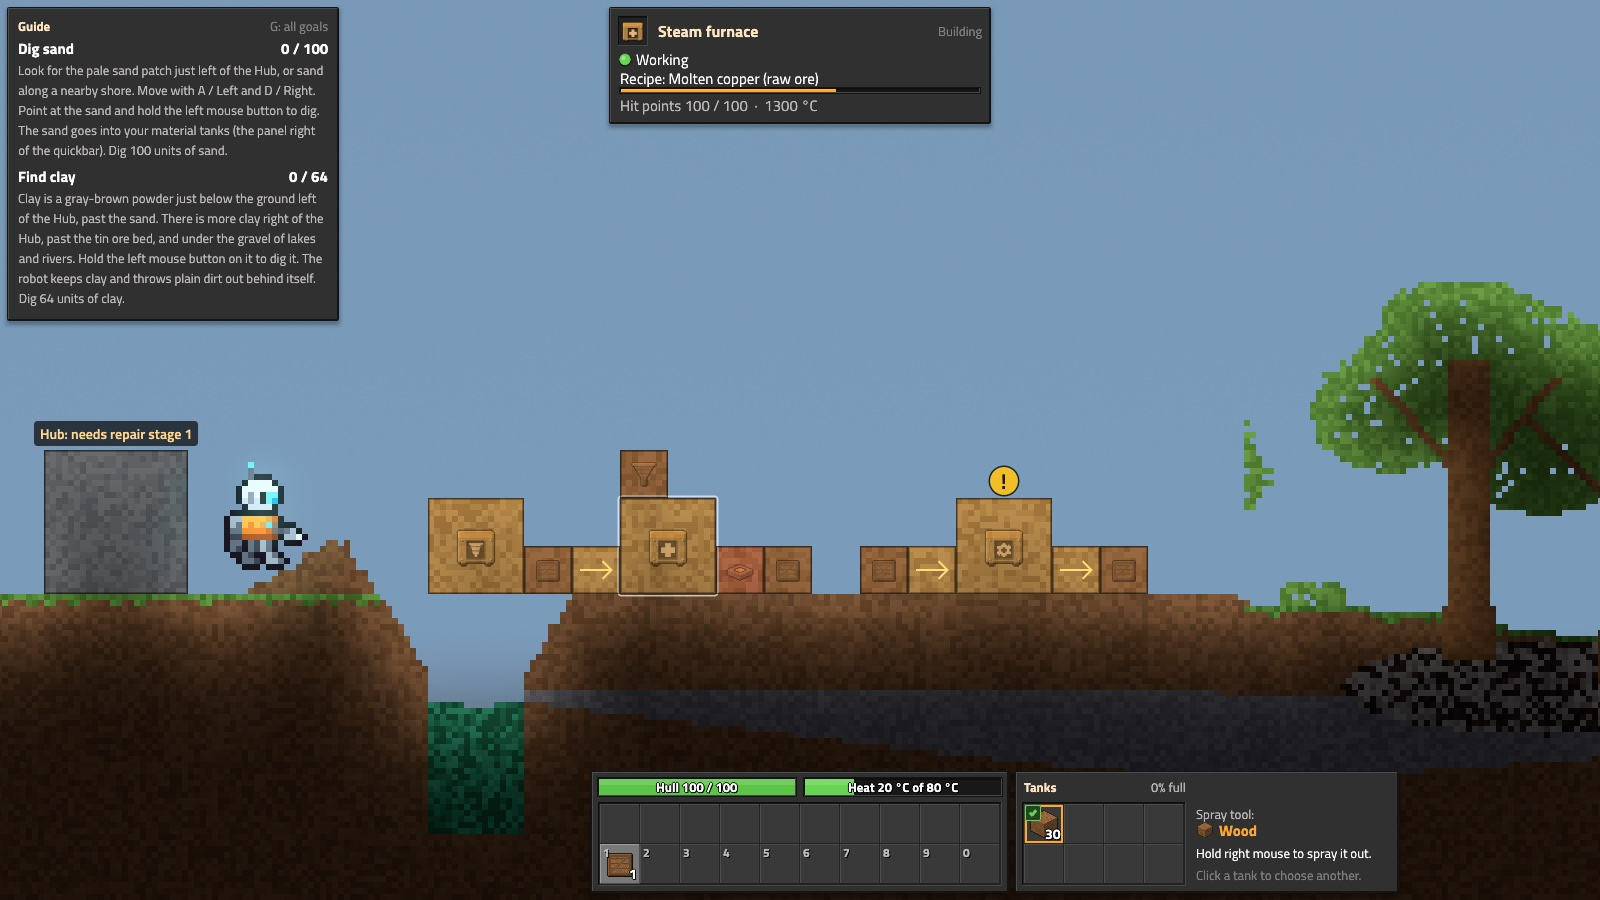
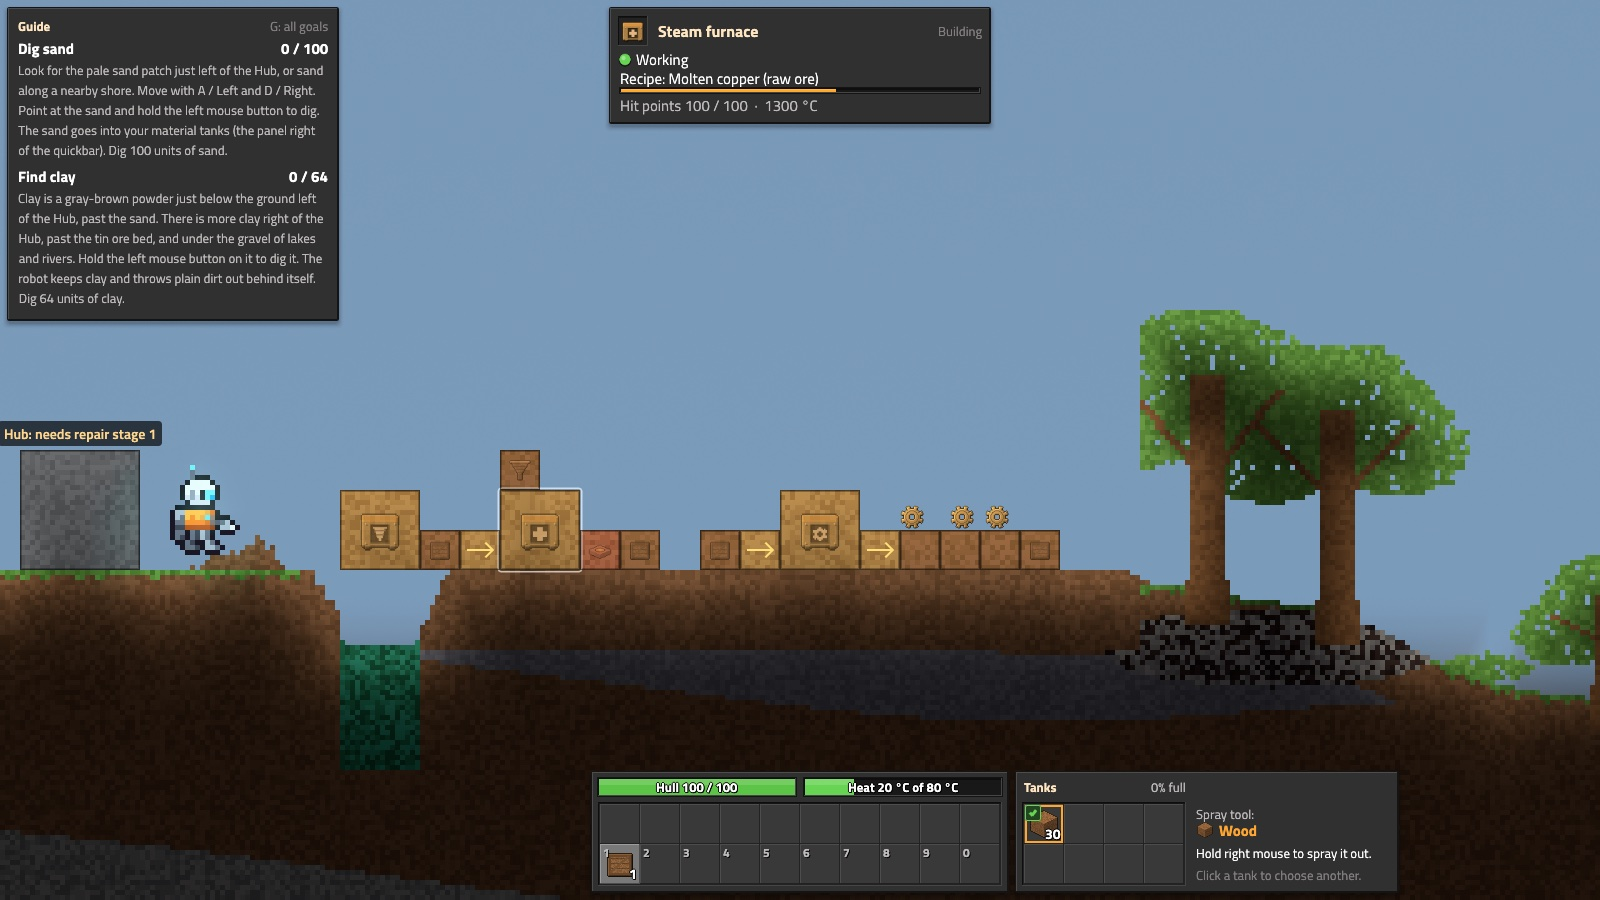
Parts ride belts: arms, crates and machine part outputs put parts on belts, belts give them to the next belt or the building at the end, arms take them off; the overlay draws them

Changed region(s): [[0.0, 0.3111, 1.0, 0.9333], [0.0, 0.9333, 0.3438, 1.0]]

diff --git a/crates/factory/src/buildings.rs b/crates/factory/src/buildings.rs
@@ -426,6 +426,11 @@ fn accept_room(logic: &Logic, content: &Content, item: ItemRef, hub: &HubRule) -
             }
             _ => 0,
         },
+        // A part goes on at the start of a belt tile, when there is room there.
+        Logic::Belt(belt) => match item {
+            ItemRef::Part(_) => belt.has_room_at_start() as u32,
+            ItemRef::Material(_) => 0,
+        },
         _ => 0,
     }
 }
@@ -478,6 +483,10 @@ fn accept(logic: &mut Logic, content: &Content, item: ItemRef, n: u32, hub: &Hub
             ItemRef::Material(m) => (0..n).take_while(|_| h.push(m)).count() as u32,
             ItemRef::Part(_) => 0,
         },
+        Logic::Belt(belt) => match item {
+            ItemRef::Part(p) => belt.push_start(p) as u32,
+            ItemRef::Material(_) => 0,
+        },
         _ => 0,
     }
 }
@@ -506,7 +515,17 @@ pub(crate) fn take_contents(logic: &mut Logic, content: &Content) -> Vec<Stack> 
                 .filter(|s| s.count > 0)
                 .collect()
         }
-        Logic::Passive | Logic::Workbench | Logic::Belt(_) | Logic::Arm(_) => vec![],
+        Logic::Belt(belt) => {
+            let mut out: Vec<Stack> = vec![];
+            for p in belt.parts.drain(..) {
+                match out.iter_mut().find(|s| s.item == ItemRef::Part(p.part)) {
+                    Some(s) => s.count += 1,
+                    None => out.push(Stack { item: ItemRef::Part(p.part), count: 1 }),
+                }
+            }
+            out
+        }
+        Logic::Passive | Logic::Workbench | Logic::Arm(_) => vec![],
     }
 }
 
@@ -1251,7 +1270,7 @@ impl Buildings {
         let (me, dst) = two_mut(&mut self.slots, i as usize, nid.index as usize)?;
         let their_port =
             dst.ports.iter().find(|p| p.kind == PortKind::PartIn && p.tile == n_tile && p.side == opposite(port.side)).copied();
-        if their_port.is_none() && !matches!(dst.logic, Logic::Storage(_)) {
+        if their_port.is_none() && !matches!(dst.logic, Logic::Storage(_) | Logic::Belt(_)) {
             return None;
         }
         let my_def = content.factory.building_def(me.kind);
@@ -1786,7 +1805,8 @@ impl Buildings {
             if steps == 0 {
                 // Not a step tick. A belt with powder on it stays awake for the next step.
                 let r = b.cell_rect();
-                let loaded = (r.x0..r.x1).any(|x| phase(content, sim.cell(CellPos::new(x, r.y0 - 1)).material) == Phase::Powder);
+                let parts = matches!(&b.logic, Logic::Belt(belt) if !belt.parts.is_empty());
+                let loaded = parts || (r.x0..r.x1).any(|x| phase(content, sim.cell(CellPos::new(x, r.y0 - 1)).material) == Phase::Powder);
                 if loaded && let Some(b) = self.at_index_mut(i) {
                     b.busy = true;
                 }
@@ -1805,6 +1825,7 @@ impl Buildings {
             let mut moved = 0;
             for _ in 0..steps {
                 moved += move_belt_cells(sim, content, r, dir);
+                moved += self.move_belt_parts(i, content) as u32;
             }
             let b = self.at_index_mut(i).expect("belt exists");
             b.busy |= moved > 0;
@@ -1822,6 +1843,43 @@ impl Buildings {
                 }
             }
         }
+    }
+
+    /// One step of the parts on belt `i`: the front part goes on to the next belt or into the
+    /// building at the end of the belt (a crate, the Hub, a lab, or a machine with a part input
+    /// facing the belt) when it reaches the end; the others move up, a gap apart.
+    /// Returns true if a part moved.
+    fn move_belt_parts(&mut self, i: u32, content: &Content) -> bool {
+        let Some(b) = self.at_index(i) else { return false };
+        let Logic::Belt(belt) = &b.logic else { return false };
+        if belt.parts.is_empty() {
+            return false;
+        }
+        let end = (TILE_SIZE - 1) as u8;
+        let dir = belt_direction(b.transform);
+        let mut handed = false;
+        if let Some(front) = belt.parts.first().copied().filter(|p| p.pos >= end) {
+            let side = if dir > 0 { Side::Right } else { Side::Left };
+            let next = neighbor_tile(b.at, side);
+            if let Some(&nid) = self.front.get(&next)
+                && nid.index != i
+            {
+                let item = ItemRef::Part(front.part);
+                let takes = self.get(nid).is_some_and(|n| match &n.logic {
+                    Logic::Belt(_) | Logic::Storage(_) | Logic::Hub(_) | Logic::Lab(_) => true,
+                    Logic::Machine(_) => n.ports.iter().any(|q| q.kind == PortKind::PartIn && q.tile == next && q.side == opposite(side)),
+                    _ => false,
+                });
+                if takes && self.room_for(content, nid, item) > 0 && self.insert(content, nid, item, 1) == 1 {
+                    handed = true;
+                }
+            }
+        }
+        let Some(Logic::Belt(belt)) = self.at_index_mut(i).map(|b| &mut b.logic) else { return false };
+        if handed {
+            belt.parts.remove(0);
+        }
+        belt.advance(end) || handed
     }
 
     /// Decide if the building sleeps after this tick.

diff --git a/crates/factory/src/logistics.rs b/crates/factory/src/logistics.rs
@@ -10,7 +10,7 @@
 //! - workbench: `reach` in tiles (default 6); `speed` is the hand crafting speed near it
 
 use crate::progress_link::{KitBuffer, LabStatus};
-use foundry_core::{MaterialId, TICKS_PER_SECOND};
+use foundry_core::{MaterialId, PartId, TICKS_PER_SECOND};
 use serde::{Deserialize, Serialize};
 use std::collections::VecDeque;
 
@@ -58,11 +58,58 @@ impl Hopper {
     }
 }
 
-/// A belt. It moves the powder that rests on its top.
+/// A belt. It moves the powder that rests on its top, and parts that ride on it.
 #[derive(Debug, Clone, Default, PartialEq, Eq, Serialize, Deserialize)]
 pub struct Belt {
     /// Belt steps in a row that moved nothing.
     pub idle_steps: u32,
+    /// Parts on this belt tile, the front one first (see `BeltPart`).
+    #[serde(default)]
+    pub parts: Vec<BeltPart>,
+}
+
+/// A part on a belt tile. `pos` is the distance in cells from the end where parts come in
+/// (0 to `TILE_SIZE - 1`); at the other end the belt gives the part on.
+#[derive(Debug, Clone, Copy, PartialEq, Eq, Serialize, Deserialize)]
+pub struct BeltPart {
+    pub part: PartId,
+    pub pos: u8,
+}
+
+/// Parts on one belt tile, at most.
+pub const BELT_PARTS: usize = 4;
+/// Cells between two parts on a belt, at least.
+pub const PART_GAP: u8 = 2;
+
+impl Belt {
+    /// True if a part can go on at the start of the tile.
+    pub fn has_room_at_start(&self) -> bool {
+        self.parts.len() < BELT_PARTS && self.parts.iter().all(|p| p.pos >= PART_GAP)
+    }
+
+    /// Put a part on at the start. Returns false if there is no room.
+    pub fn push_start(&mut self, part: PartId) -> bool {
+        if !self.has_room_at_start() {
+            return false;
+        }
+        self.parts.push(BeltPart { part, pos: 0 });
+        true
+    }
+
+    /// Move the parts one cell forward, keeping the gap. The front part stops at the end.
+    /// Returns true if a part moved.
+    pub fn advance(&mut self, end: u8) -> bool {
+        let mut moved = false;
+        let mut limit = end;
+        for p in &mut self.parts {
+            if p.pos < limit {
+                p.pos += 1;
+                moved = true;
+            }
+            limit = p.pos.saturating_sub(PART_GAP);
+        }
+        moved
+    }
 }
 
 /// A lab: a small buffer of research kits.

diff --git a/crates/factory/tests/automation.rs b/crates/factory/tests/automation.rs
@@ -235,3 +235,47 @@ fn a_rubber_line_makes_rubber_sheets() {
         f.building_view(press)
     );
 }
+
+/// crate → arm → 5 wood belts → crate: the parts ride the belts and go into the crate at the end.
+#[test]
+fn parts_ride_belts_into_a_crate() {
+    let c = content();
+    let mut sim = world(&c, Some(96));
+    let mut f = Factory::new(c.clone());
+    research_all(&mut f);
+    let from = f.place(kind(&c, "crate"), TilePos::new(2, 11), 0, false, &mut sim).unwrap();
+    f.place(kind(&c, "arm"), TilePos::new(3, 11), 0, false, &mut sim).unwrap();
+    let belts: Vec<_> = (4..9).map(|x| f.place(kind(&c, "wood_belt"), TilePos::new(x, 11), 0, false, &mut sim).unwrap()).collect();
+    let to = f.place(kind(&c, "crate"), TilePos::new(9, 11), 0, false, &mut sim).unwrap();
+    assert_eq!(f.buildings.insert(&c, from, item(&c, "bronze_gear"), 12), 12);
+    run(&mut f, &mut sim, 60 * 3);
+    // Some gears are on the way, on the belts.
+    let riding: usize = belts
+        .iter()
+        .map(|id| match &f.buildings.get(*id).unwrap().logic {
+            foundry_factory::Logic::Belt(b) => b.parts.len(),
+            _ => 0,
+        })
+        .sum();
+    assert!(riding > 0, "parts ride the belts");
+    run(&mut f, &mut sim, 60 * 10);
+    assert_eq!(f.buildings.inventory(to).unwrap().count(item(&c, "bronze_gear")), 12);
+}
+
+/// A mold puts its plates onto a belt at its part output; the belt takes them to a crate.
+#[test]
+fn a_mold_puts_plates_onto_a_belt() {
+    let c = content();
+    let mut sim = world(&c, Some(96));
+    let mut f = Factory::new(c.clone());
+    research_all(&mut f);
+    let mold = f.place(kind(&c, "plate_mold"), TilePos::new(3, 11), 0, false, &mut sim).unwrap();
+    for x in 4..7 {
+        f.place(kind(&c, "wood_belt"), TilePos::new(x, 11), 0, false, &mut sim).unwrap();
+    }
+    let to = f.place(kind(&c, "crate"), TilePos::new(7, 11), 0, false, &mut sim).unwrap();
+    f.set_recipe(mold, c.factory.recipe("tin_plate")).unwrap();
+    f.buildings.insert(&c, mold, item(&c, "molten_tin"), 32);
+    run(&mut f, &mut sim, 60 * 30);
+    assert_eq!(f.buildings.inventory(to).unwrap().count(item(&c, "tin_plate")), 2, "{:?}", f.building_view(mold));
+}

diff --git a/crates/game/src/screenshot/lines.rs b/crates/game/src/screenshot/lines.rs
@@ -84,12 +84,12 @@ fn steam(host: &mut FactoryHost, content: &Content, id: BuildingId) {
 
 /// A Tier 1 line with no player action: a steam drill over a malachite vein → crate → arm →
 /// steam furnace (charcoal from a hopper on it) → plate mold → crate → arm → steam assembler
-/// (bronze gears from the plates of another crate) → arm → crate.
+/// (bronze gears from the plates of another crate) → arm → belts → crate.
 pub fn automation(host: &mut FactoryHost, sim: &mut Simulation, content: &Content) -> CellPos {
     for i in 0..content.factory.techs.len() {
         host.factory.progress.debug_complete(content, TechId(i as u16));
     }
-    let (x, b) = site(host, sim, content, 16);
+    let (x, b) = site(host, sim, content, 19);
     // A malachite vein under the drill.
     let vein = content.expect_material("malachite");
     for cy in (b + 1) * TILE_SIZE..(b + 6) * TILE_SIZE {
@@ -109,13 +109,16 @@ pub fn automation(host: &mut FactoryHost, sim: &mut Simulation, content: &Conten
     place(host, sim, content, "arm", TilePos::new(x + 10, b));
     let assembler = place(host, sim, content, "steam_assembler", TilePos::new(x + 11, b - 1));
     place(host, sim, content, "arm", TilePos::new(x + 13, b));
-    place(host, sim, content, "crate", TilePos::new(x + 14, b));
+    for k in 14..17 {
+        place(host, sim, content, "wood_belt", TilePos::new(x + k, b));
+    }
+    place(host, sim, content, "crate", TilePos::new(x + 17, b));
     recipe(host, content, furnace, "copper_smelting");
     recipe(host, content, mold, "copper_plate");
     recipe(host, content, assembler, "bronze_gear");
     host.factory.buildings.insert(content, hopper, item(content, "charcoal"), 64);
-    host.factory.buildings.insert(content, plates, item(content, "bronze_plate"), 40);
-    for k in 0..60 * 40 {
+    host.factory.buildings.insert(content, plates, item(content, "bronze_plate"), 80);
+    for k in 0..60 * 30 {
         if k % 300 == 0 {
             for id in [drill, furnace, assembler] {
                 steam(host, content, id);

diff --git a/crates/game/src/factory_host.rs b/crates/game/src/factory_host.rs
@@ -304,6 +304,8 @@ pub struct FactoryFrame {
     pub ghost: Option<GhostView>,
     pub hover: Option<HoverBuilding>,
     pub marks: Vec<BuildingMark>,
+    /// Parts riding the belts in the view: the cell under the middle of the part, and the part.
+    pub belt_parts: Vec<(CellPos, ItemRef)>,
     /// The building placed last and its cells (for tests; later for the build animation).
     pub last_placed: Option<(BuildingKindId, CellRect)>,
     /// Name tags over buildings in the view (the Hub and its next repair stage).
@@ -1111,6 +1113,23 @@ impl FactoryHost {
                 BuildingMark { rect: b.cell_rect(), status: b.status, output, belt, arm, back: b.layer == foundry_content::Layer::Back, icon }
             })
             .collect();
+        let belt_parts = f
+            .buildings
+            .iter()
+            .filter(|(_, b)| !b.cell_rect().intersect(&view).is_empty())
+            .flat_map(|(_, b)| {
+                let foundry_factory::Logic::Belt(belt) = &b.logic else { return vec![] };
+                let dir = foundry_factory::buildings::belt_direction(b.transform);
+                let r = b.cell_rect();
+                belt.parts
+                    .iter()
+                    .map(|p| {
+                        let x = if dir > 0 { r.x0 + p.pos as i32 } else { r.x1 - 1 - p.pos as i32 };
+                        (CellPos::new(x, r.y0 - 3), ItemRef::Part(p.part))
+                    })
+                    .collect()
+            })
+            .collect();
         // The hole or the wrong wall block of a room: a red mark on that tile.
         for (_, b) in f.buildings.iter() {
             let tile = b.room.as_deref().and_then(|r| r.problem.as_ref()).and_then(|p| p.tile());
@@ -1158,6 +1177,7 @@ impl FactoryHost {
             ghost,
             hover,
             marks,
+            belt_parts,
             last_placed: self.last_placed,
             labels,
             drag_stop: self.drag_stop.clone(),

diff --git a/crates/factory/src/arms.rs b/crates/factory/src/arms.rs
@@ -122,6 +122,8 @@ impl Buildings {
             }
             Logic::Storage(inv) => inv.contents().into_iter().map(|s| (s.item, s.count)).collect(),
             Logic::Hopper(h) => h.counts().into_iter().map(|(m, n)| (ItemRef::Material(m), n)).collect(),
+            // The parts on a belt tile, the front one first.
+            Logic::Belt(belt) => belt.parts.iter().map(|p| (ItemRef::Part(p.part), 1)).collect(),
             _ => vec![],
         }
     }
@@ -137,6 +139,16 @@ impl Buildings {
             Logic::Hopper(h) => {
                 let ItemRef::Material(m) = item else { return 0 };
                 take_cells(&mut h.cells, m, n)
+            }
+            Logic::Belt(belt) => {
+                let ItemRef::Part(p) = item else { return 0 };
+                match belt.parts.iter().position(|x| x.part == p) {
+                    Some(k) if n > 0 => {
+                        belt.parts.remove(k);
+                        1
+                    }
+                    _ => 0,
+                }
             }
             _ => 0,
         }

diff --git a/crates/game/src/overlay.rs b/crates/game/src/overlay.rs
@@ -65,6 +65,14 @@ pub fn draw(painter: &Painter, frame: &FactoryFrame, s: &Scene) {
     for m in frame.marks.iter().filter(|m| !m.back) {
         outline(painter, &v, m);
     }
+    // Parts on belts: a small icon sitting on the belt.
+    if let Some(atlas) = s.atlas {
+        for (c, item) in &frame.belt_parts {
+            let center = v.pos(c.x as f64 + 0.5, c.y as f64 + 0.5);
+            let side = (5.0 * v.scale()).clamp(8.0, 40.0);
+            atlas.paint(painter, *item, Rect::from_center_size(center, vec2(side, side)), Color32::WHITE);
+        }
+    }
     for m in frame.marks.iter().filter(|m| m.status.is_problem()) {
         status_mark(painter, &v, m.rect, m.status);
     }

diff --git a/README.md b/README.md
@@ -44,7 +44,7 @@ The machines work with the real cells of the world. A kiln is a room of brick wa
   - A hover box shows what is under the mouse.
 - **Factory**
   - Hand crafting and a workbench.
-  - Crates, barrels, hoppers and belts.
+  - Crates, barrels, hoppers and belts. Belts move powder and parts.
   - Room machines: kiln, coke oven and blast furnace.
   - Crucible, bellows and casting molds: the crucible pours into a mold, and the mold puts the plates into a crate.
   - Stamp mill and sluice.
@@ -70,7 +70,7 @@ The machines work with the real cells of the world. A kiln is a room of brick wa
 
 ## Planned features
 
-- Parts on belts, splitters and sorters.
+- Splitters, sorters and belt lifts.
 - A play-through test for Tier 1.
 - Building sprites (now buildings are blocks of their material with an outline and a faint icon).
 - Blueprints, and ghosts that wait for items.
@@ -85,7 +85,7 @@ The machines work with the real cells of the world. A kiln is a room of brick wa
 | ![The start in a generated world](docs/screenshots/world_gen.jpg) | ![A kiln room that fires clay bricks](docs/screenshots/kiln.jpg) |
 | The start, with the guide | A kiln room that fires clay bricks |
 | ![The smelting site](docs/screenshots/smelter.jpg) | ![An automated line](docs/screenshots/automation.jpg) |
-| Tier 0: a crucible on a campfire pours copper into a mold | Tier 1: a steam drill, arms, a steam furnace, a mold and a gear assembler |
+| Tier 0: a crucible on a campfire pours copper into a mold | Tier 1: a steam drill, arms, a steam furnace, a mold, a gear assembler and gears on a belt |
 | ![A steam crusher](docs/screenshots/steam_line.jpg) | ![The robot's animations](tools/sprites/robot_preview.png) |
 | A steam crusher at work | The robot's animations |
 
